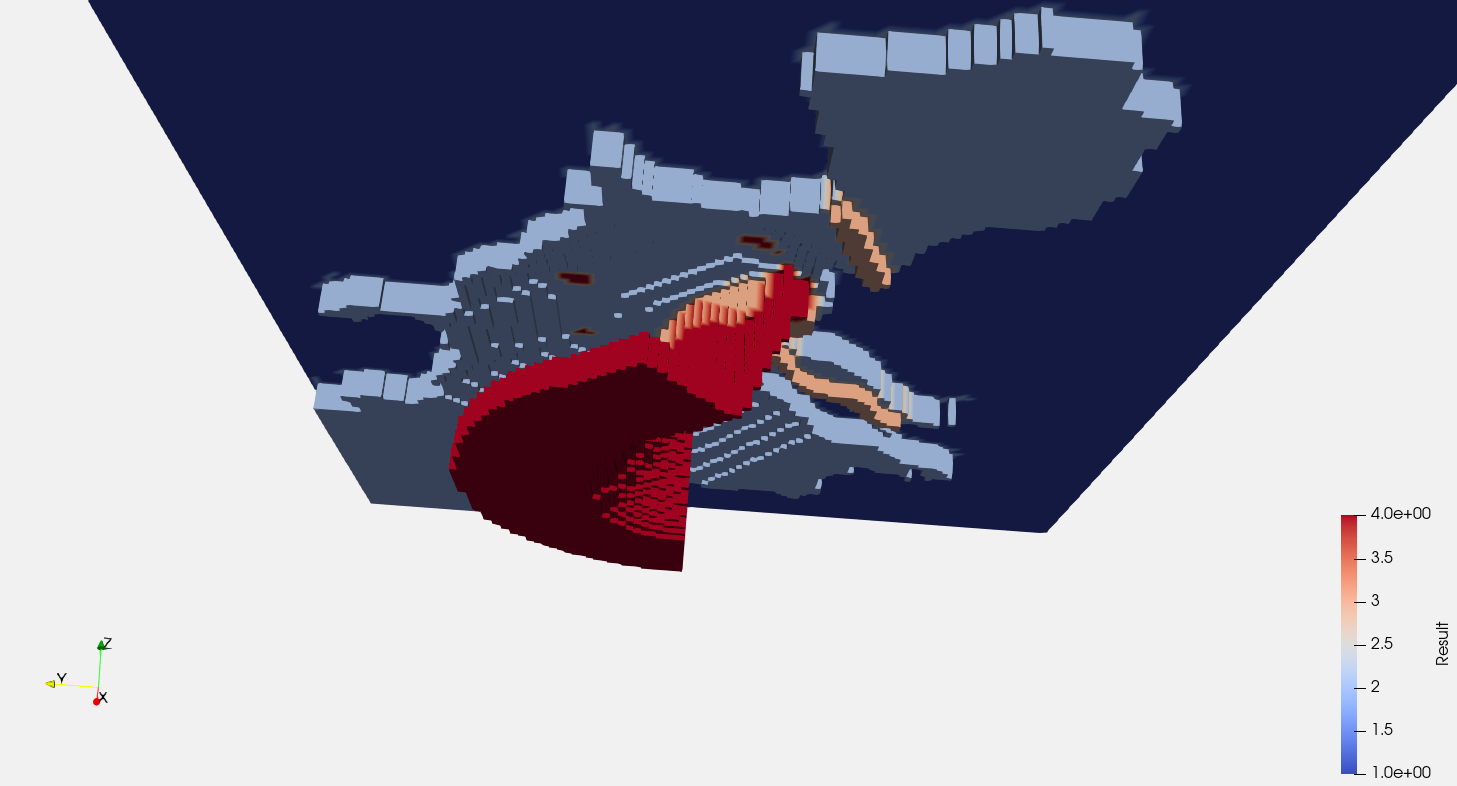
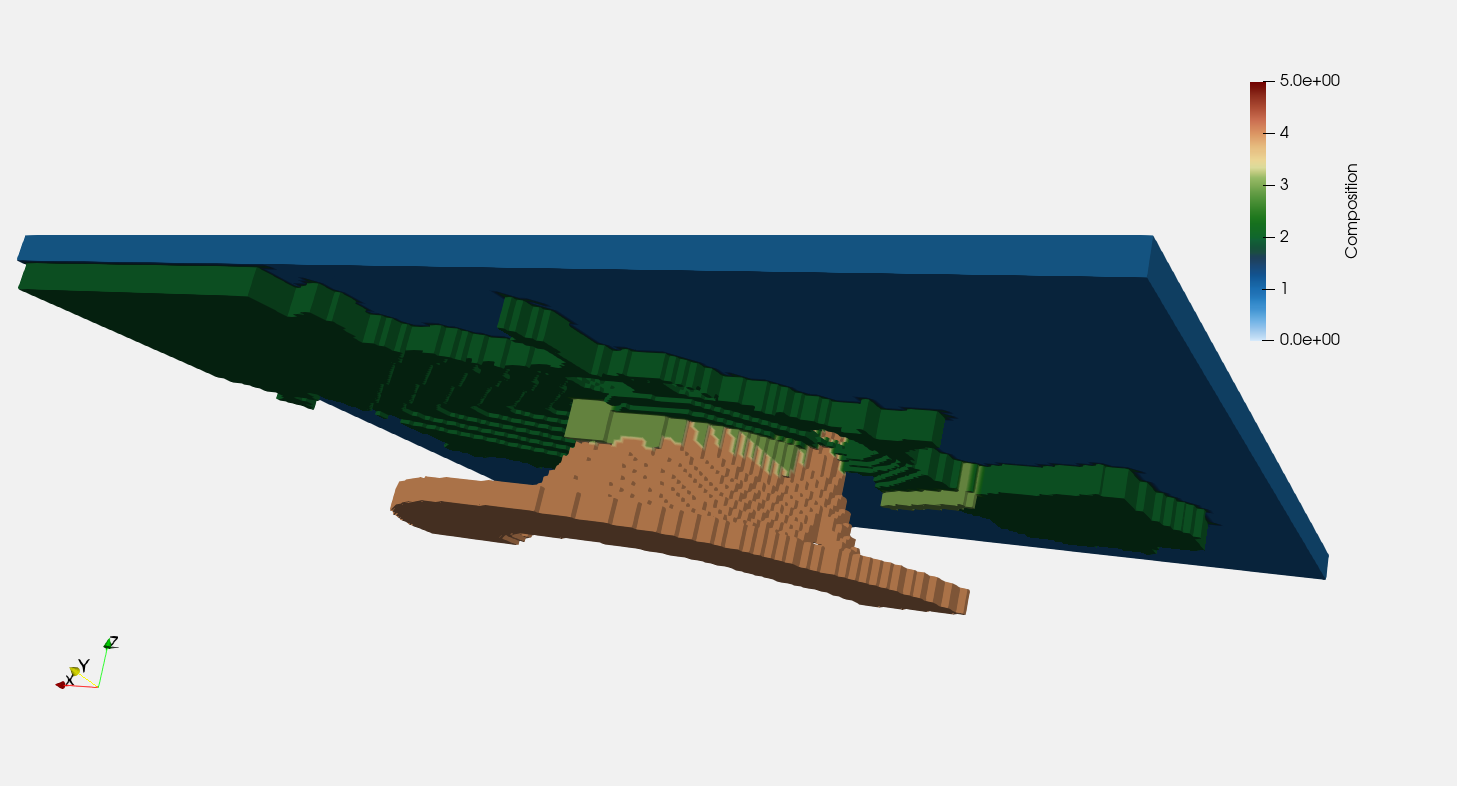
modified colourbar and colourmap of figures and adjusted README of the cookbook

diff --git a/cookbooks/3d_cartesian_big_mantle_wedge_Europe/doc/README.md b/cookbooks/3d_cartesian_big_mantle_wedge_Europe/doc/README.md
@@ -58,7 +58,7 @@ The region is 4000 x 3000 x 660 km Cartesian box (x,y,z) representing continenta
 :align: center
 :::
 
-Figure (1): different colours represent different features: oceanic plate (dark blue), continental plate (light blue), mountain ranges (pink), intra-continental volcanic provinces (red)
+Figure (1): different colours represent different features: oceanic plate (dark blue), continental plate (dark green), mountain ranges (light green), intra-continental volcanic provinces (orange)
 
 :::{figure}  big_mantle_wedge_Europe_mantle_view.png
 :name:  big_mantle_wedge_Europe_mantle_view
@@ -66,7 +66,7 @@ Figure (1): different colours represent different features: oceanic plate (dark 
 :align: center
 :::
 
-Figure (2): different colours represent different features: oceanic plate (dark blue), continental plate (light blue), mountain ranges (pink), intra-continental volcanic provinces and subducted slab (red)
+Figure (2): different colours represent different features: oceanic plate (dark blue), continental plate (dark green), mountain ranges (light green), and subducted slab (orange)
 
 :::{figure}  big_mantle_wedge_Europe_plumes_view.png
 :name:  big_mantle_wedge_Europe_plumes_view
@@ -74,4 +74,4 @@ Figure (2): different colours represent different features: oceanic plate (dark 
 :align: center
 :::
 
-Figure (3): different colours represent different features: oceanic plate (dark blue), continental plate (light blue), mountain ranges (light pink), intra-continental volcanic provinces and subducted slab (dark pink), ascending plumes (red)
+Figure (3): different colours represent different features: oceanic plate (dark blue), continental plate (dark green), mountain ranges (light green), subducted slab (orange), intra-continental volcanic provinces and ascending plumes (red)
